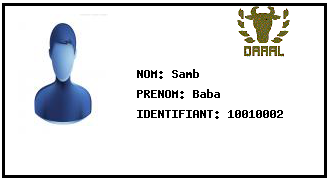
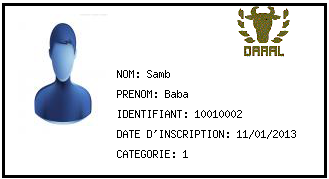
Printing and Billing functionalities implemented

diff --git a/application/controllers/FarmerController.php b/application/controllers/FarmerController.php
@@ -130,7 +130,8 @@ class FarmerController extends Zend_Controller_Action
     			// ID CARD GENERATION
     			$filename = $form->photo->getFileName();
     			$filename= $farmer->resize_picture($filename);
-    			$path=$farmer->createCard($filename,$lastname_farmer,$firstname_farmer,$id_farmer);//path to the ID Card
+    			$reg_date_std_format=implode('/',array_reverse(explode('-',$registration_date)));
+    			$path=$farmer->createCard($filename,$lastname_farmer,$firstname_farmer,$id_farmer,$reg_date_std_format,$categorie);//path to the ID Card
     			
     			$session = new Zend_Session_Namespace('session'); //variable used to send values to the displaycardAction()
     			$session->photo_path = $path;// to be used by the displaycardAction()
@@ -196,6 +197,11 @@ class FarmerController extends Zend_Controller_Action
     			$firstname_farmer = $form->getValue('firstname_farmer');
     			$lastname_farmer = $form->getValue('lastname_farmer');
     			$phone_farmer = $form->getValue('phone_farmer');
+    			$registration_date=$form->getValue('registration_date');
+    			//**** put registration date into SQL Format
+    			$date=implode('-',array_reverse(explode('/',$registration_date)));
+    			$registration_date=$date;
+    			//*********
     			$birthdate_farmer = $form->getValue('birthdate_farmer');
     			//**** put date into SQL Format
     			$date=implode('-',array_reverse(explode('/',$birthdate_farmer)));
@@ -231,7 +237,10 @@ class FarmerController extends Zend_Controller_Action
     			// ID CARD GENERATION
     			$filename = $form->photo->getFileName();
     			$filename= $farmer->resize_picture($filename);
-    			$path=$farmer->createCard($filename,$lastname_farmer,$firstname_farmer,$id_farmer);//path to the ID Card
+    			$reg_date_std_format=implode('/',array_reverse(explode('-',$registration_date)));
+    			$path=$farmer->createCard($filename,$lastname_farmer,$firstname_farmer,$id_farmer,$reg_date_std_format,$categorie);//path to the ID Card
+    			    
+    			//$path=$farmer->createCard($filename,$lastname_farmer,$firstname_farmer,$id_farmer);//path to the ID Card
     			
     		
     			$this->_redirector->gotoUrl('/farmer/displayfarmer/id/'.$id_farmer);
@@ -270,6 +279,21 @@ class FarmerController extends Zend_Controller_Action
       $id_farmer = $this->_getParam('id');
       $this->view->assign(array('id'=>$id_farmer));
       
+    }
+    
+    //**************************************************************************************************//
+    //									       PRINT MEMBER CARD
+    //**************************************************************************************************//
+    
+    public function printcardAction()
+    
+    
+    {
+    	 
+    	$this->_helper->layout->setLayout('layout2');
+    	$id_farmer = $this->_getParam('id');
+    	$this->view->assign(array('id'=>$id_farmer));
+    
     }
     
     //**************************************************************************************************//

diff --git a/application/models/Cheptel/DbTable/Cheptel.php b/application/models/Cheptel/DbTable/Cheptel.php
@@ -54,6 +54,8 @@ class Application_Model_Cheptel_DbTable_Cheptel extends Zend_Db_Table_Abstract
 						             	
 						             	$rank=$tableAnimal->get_total_animal_type_registered($fk_id_farmer,$tag)+1; 
 						             	
+						             	$ids='';
+						             	
 						             	//new animals are inserted
 						             	for($i=0;$i<$total_animaltype_to_add;$i++)
 						             	{	
@@ -66,16 +68,17 @@ class Application_Model_Cheptel_DbTable_Cheptel extends Zend_Db_Table_Abstract
 						             		
 						             		$animal_id=$fk_id_farmer.$tag.$new_animaltype_rank;
 						             		
+						             		$ids.="  ".$animal_id;
 						             	    $tableAnimal->addAnimal($fk_id_farmer,$fk_animaltype,$animal_id); 
 						             	    
 						             	    $rank++;//we increment for the next animal 
 						             	}
 				                 
-				             		   return 1; // update and insertion ok
+				             		   return array('res'=>1,'ids'=>$ids); // update and insertion ok
 				             	}
 				             	
 				             	else{ 
-				             		   return -1;//no insertion: maximum exceeded 
+				             		   return array('res'=>-1,'ids'=>$ids); ;//no insertion: maximum exceeded 
 				             	    }
 				             	
 				             
@@ -101,7 +104,7 @@ class Application_Model_Cheptel_DbTable_Cheptel extends Zend_Db_Table_Abstract
 				             		
 				             		$this->insert($data);
 				             		
-				             		
+				             		$ids='';
 				             		//first new animal type rank
 				             		$tag= $tableAnimaltype->getAnimalTag($fk_animaltype);
 				             		
@@ -117,18 +120,19 @@ class Application_Model_Cheptel_DbTable_Cheptel extends Zend_Db_Table_Abstract
 				             			
 				             			 
 				             			$animal_id=$fk_id_farmer.$tag.$new_animaltype_rank;
-				             			 
+				             			
+				             			$ids.="  ".$animal_id;
 				             			$tableAnimal->addAnimal($fk_id_farmer,$fk_animaltype,$animal_id);
 				             			
 				             			$rank++;//we increment for the next animal
 				             		}
 				             	
-				             		return 1; // insertion ok
+				             		return array('res'=>1,'ids'=>$ids); ; // insertion ok
 				             	}
 				             	 
 				             	else
 				             	{
-				             		return -1;//no insertion: maximum exceeded
+				             		return array('res'=>-1,'ids'=>$ids); ;//no insertion: maximum exceeded
 				             	}
 	             	
 	             	
@@ -141,7 +145,7 @@ class Application_Model_Cheptel_DbTable_Cheptel extends Zend_Db_Table_Abstract
 	   
 	   else 
 	        {
-	        	return 0;//no such farmer in data base
+	        	return array('res'=>0,'ids'=>array()); ;//no such farmer in data base
 	        }
 	        
 	   } 

diff --git a/application/controllers/TransactionsController.php b/application/controllers/TransactionsController.php
@@ -145,7 +145,8 @@ class TransactionsController extends Zend_Controller_Action
     			$animaltype= $form->getValue('animaltype');
     			$info_buyer = $form->getValue('info_buyer');
     			$animal_ids = explode(";",$form->getValue('animal_id'));
-    		    $nb_animals=count($animal_ids);
+    		    $nb_animals=count($animal_ids);//used to check against farmer category
+    		    $transaction_date=date("d.m.y");
     			//print_r($count_ids);break;
     			
     			// !!!!check infos !!!!!
@@ -158,7 +159,13 @@ class TransactionsController extends Zend_Controller_Action
 				
 			  if($error_log=='none;')	
 			  	    			
-			  {
+			  {   
+			  	$elements_facture='';
+			  	$elements_facture.=$transaction_date.";";
+			    $elements_facture.=$id_seller.";";
+			    $elements_facture.=$id_buyer.";";
+			    $elements_facture.=$info_buyer.";";
+			   
 			  	foreach ($animal_ids as $animal_id)
 			  	  {
 			  	    
@@ -178,11 +185,11 @@ class TransactionsController extends Zend_Controller_Action
     				);
     				$tableTransactions->insert($transaction_data);
     				//!!! redirect to success message success message !!!
-    				
+    				$elements_facture.=$res['animal_id'].";";
     				
     			   }
     			   
-    			   $this->_redirector->gotoUrl('/transactions/displaysuccess/message/');
+    			   $this->_redirector->gotoUrl('/transactions/displaysuccess/elementfacture/'.$elements_facture);
 			  }
     		  else 
     		  {
@@ -215,7 +222,15 @@ class TransactionsController extends Zend_Controller_Action
     //=================================
     public function displaysuccessAction()
     {
+    	$elements_facture = $this->_getParam('elementfacture');
+    	$this->view->assign(array('elements_facture'=>$elements_facture));
+    }
     
+    public function printfactureAction()
+    {
+    	$this->_helper->layout->setLayout('layout2');
+    	$elements_facture = $this->_getParam('elements_facture');
+    	$this->view->assign(array('elements_facture'=>$elements_facture));
     }
     
     

diff --git a/application/models/Farmer/DbTable/Farmer.php b/application/models/Farmer/DbTable/Farmer.php
@@ -313,7 +313,7 @@ class Application_Model_Farmer_DbTable_Farmer extends Zend_Db_Table_Abstract
 	//****************************************************************************************************************//
 	//*********** CREATES THE IMAGE OF THE "DARAL ID CARD" USING THE FARMER'S PICTURE AND INFO ***********************//
 	
-	public function createCard($filename,$lastname_farmer,$firstname_farmer,$id_farmer)
+	public function createCard($filename,$lastname_farmer,$firstname_farmer,$id_farmer,$registration_date,$categorie)
 	{
 		$Op_Syst=$this->getOS();
 		
@@ -339,7 +339,8 @@ class Application_Model_Farmer_DbTable_Farmer extends Zend_Db_Table_Abstract
 		  	$nom=$lastname_farmer;
 		  	$prenom=$firstname_farmer;
 		  	$id=$id_farmer;
-		  	
+		  	$reg_date=$registration_date;
+		  	$categ=$categorie;
 		  	
 		  	$noir = imagecolorallocate($destination, 0, 0, 0);
 		  	$path=IMAGE_PATH."\\".$id.".png";
@@ -366,14 +367,21 @@ class Application_Model_Farmer_DbTable_Farmer extends Zend_Db_Table_Abstract
 					$nom=$lastname_farmer;
 					$prenom=$firstname_farmer;
 					$id=$id_farmer;
+					$reg_date=$registration_date;
+					$categ=$categorie;
+					 
 					 
 				
 					$noir = imagecolorallocate($destination, 0, 0, 0);
 				    $path=IMAGE_PATH."/".$id.".png";
 				}
-		imagestring($destination,3,137,67,"NOM: ".$nom,$noir);
-		imagestring($destination,3,137,87,"PRENOM: ".$prenom,$noir);
-		imagestring($destination,3,137,107,"IDENTIFIANT: ".$id,$noir);
+		imagestring($destination,2,117,67,"NOM: ".$nom,$noir);
+		imagestring($destination,2,117,87,"PRENOM: ".$prenom,$noir);
+		imagestring($destination,2,117,107,"IDENTIFIANT: ".$id,$noir);
+		imagestring($destination,2,117,127,"DATE D'INSCRIPTION: ".$reg_date,$noir);
+		imagestring($destination,2,117,147,"CATEGORIE: ".$categ,$noir);
+		
+		
 		//imagestring($destination,3,137,127,"src: ".$namePhoto,$noir); // for debugging
 	
 		imagecopymerge($destination, $source,

diff --git a/application/controllers/CheptelController.php b/application/controllers/CheptelController.php
@@ -148,9 +148,10 @@ class CheptelController extends Zend_Controller_Action
 				$cheptel = new Application_Model_Cheptel_DbTable_Cheptel();
 				try{
 					$result=$cheptel->addCheptel($fk_id_farmer,$fk_animaltype,$total_animaltype);
-					switch ($result)
+					$ids=$result['ids'];
+					switch ($result['res'])
 					{
-						case  1: $this->_redirector->gotoUrl('/farmer/displayfarmer/id/'.$fk_id_farmer);break;
+						case  1: $this->_redirector->gotoUrl('/cheptel/success/ids/'.$ids);break;
 						case  0: $this->_redirector->gotoUrl('/cheptel/errorfarmer');
 						case -1: $this->_redirector->gotoUrl('/cheptel/errormax');
  					}
@@ -210,6 +211,19 @@ class CheptelController extends Zend_Controller_Action
     	
     }
     
+    public function successAction()
+    {
+    	$ids = $this->_getParam('ids');
+    	$this->view->assign(array('ids'=>$ids));
+    	 
+    }
+    
+    public function printidsAction()
+    {
+    	$this->_helper->layout->setLayout('layout2');
+    	$ids = $this->_getParam('animal_ids');
+    	$this->view->assign(array('ids'=>$ids));
+    }
 }
 //############################################################################################################################################
 

diff --git a/application/forms/EditFarmer.php b/application/forms/EditFarmer.php
@@ -46,6 +46,15 @@ class Application_Form_EditFarmer extends Zend_Form
         $tableCategorie = new Application_Model_Categorie_DbTable();
         
         $this->addElement(
+        		$this->createElement('text', 'registration_date')
+        		->setLabel('Date d\'inscription')
+        		//->setValue(date("Y-m-d"))
+        		->setAttrib('readonly','readonly')
+        		->setRequired(true)
+        		->addFilter(new Zend_Filter_StringTrim())
+        );
+        
+        $this->addElement(
             $this->createElement('select', 'categorie')
                 ->setLabel('Categorie ')
                 ->setMultiOptions(array("" => "- - - - - - - - - Choisir - - - - - - - - -") + $tableCategorie->fetchPairs())
@@ -139,13 +148,13 @@ class Application_Form_EditFarmer extends Zend_Form
         
         
         
-        $this->addElement(
+       /* $this->addElement(
         		$this->createElement('hidden', 'registration_date')
         		// ->setLabel('Registration Date')
         		->setValue(date("Y-m-d"))
         		//->setRequired(true)
         		->addFilter(new Zend_Filter_StringTrim())
-        );
+        );*/
         
         
         

diff --git a/application/forms/Transactions.php b/application/forms/Transactions.php
@@ -43,7 +43,7 @@ class Application_Form_Transactions extends Zend_Form
         
         $this->addElement(
         		$this->createElement('textarea', 'info_buyer')
-        		->setLabel('Info Client')
+        		->setLabel('Details')
         		->setAttrib('rows', '4')
         		->setAttrib('cols', '8')
         		->setAttrib("maxlength", 1000)
